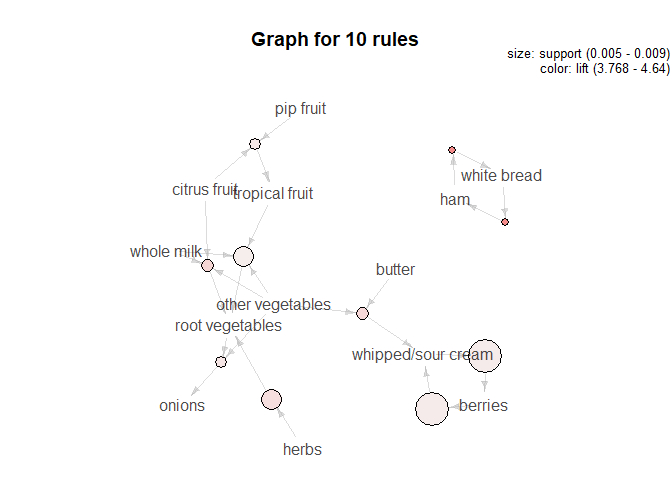
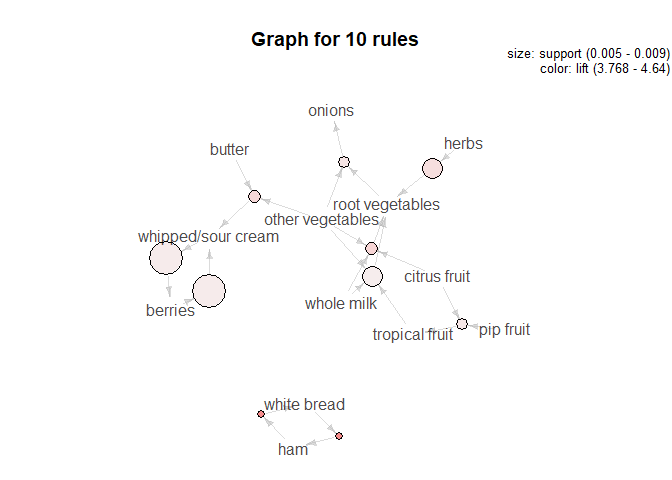
fix rule display

diff --git a/ARM_Groceries.md b/ARM_Groceries.md
@@ -31,56 +31,35 @@ have very high betweeness.
 The top 10 rules with a confidence threshold of 0.4 in terms of lift
 are:
 
-    ##                                                                rules
-    ## 1    {citrus fruit,other vegetables,whole milk} => {root vegetables}
-    ## 2                                       {herbs} => {root vegetables}
-    ## 3                       {citrus fruit,pip fruit} => {tropical fruit}
-    ## 4  {other vegetables,tropical fruit,whole milk} => {root vegetables}
-    ## 5       {other vegetables,pip fruit,whole milk} => {root vegetables}
-    ## 6                                  {curd,tropical fruit} => {yogurt}
-    ## 7                       {beef,other vegetables} => {root vegetables}
-    ## 8    {fruit/vegetable juice,other vegetables,whole milk} => {yogurt}
-    ## 9            {root vegetables,tropical fruit,whole milk} => {yogurt}
-    ## 10   {citrus fruit,root vegetables,whole milk} => {other vegetables}
-    ##        lift
-    ## 1  4.085493
-    ## 2  3.956477
-    ## 3  3.854060
-    ## 4  3.768074
-    ## 5  3.724961
-    ## 6  3.690645
-    ## 7  3.688692
-    ## 8  3.479790
-    ## 9  3.401937
-    ## 10 3.273165
-
-![](ARM_Groceries_files/figure-gfm/unnamed-chunk-10-1.png)<!-- -->
+|     rank | rules                                                              |     lift |
+| -------: | :----------------------------------------------------------------- | -------: |
+|        1 | {citrus fruit,other vegetables,whole milk} =\> {root vegetables}   | 4.085493 |
+|        2 | {herbs} =\> {root vegetables}                                      | 3.956477 |
+|        3 | {citrus fruit,pip fruit} =\> {tropical fruit}                      | 3.854060 |
+|        4 | {other vegetables,tropical fruit,whole milk} =\> {root vegetables} | 3.768074 |
+|        5 | {other vegetables,pip fruit,whole milk} =\> {root vegetables}      | 3.724961 |
+|        6 | {curd,tropical fruit} =\> {yogurt}                                 | 3.690645 |
+|        7 | {beef,other vegetables} =\> {root vegetables}                      | 3.688693 |
+|        8 | {fruit/vegetable juice,other vegetables,whole milk} =\> {yogurt}   | 3.479790 |
+|        9 | {root vegetables,tropical fruit,whole milk} =\> {yogurt}           | 3.401937 |
+|       10 | {citrus fruit,root vegetables,whole milk} =\> {other vegetables}   | 3.273165 |
+| \[\](ARM | \_Groceries\_files/figure-gfm/unnamed-chunk-10-1.png)<!-- -->      |          |
 
 If we lower the confidence threshold to 0.1, the top 10 rules
-    are:
+are:
 
-    ##                                                                rules
-    ## 1                                             {ham} => {white bread}
-    ## 2                                             {white bread} => {ham}
-    ## 3    {citrus fruit,other vegetables,whole milk} => {root vegetables}
-    ## 4                  {butter,other vegetables} => {whipped/sour cream}
-    ## 5                                       {herbs} => {root vegetables}
-    ## 6                     {other vegetables,root vegetables} => {onions}
-    ## 7                       {citrus fruit,pip fruit} => {tropical fruit}
-    ## 8                                  {berries} => {whipped/sour cream}
-    ## 9                                  {whipped/sour cream} => {berries}
-    ## 10 {other vegetables,tropical fruit,whole milk} => {root vegetables}
-    ##        lift
-    ## 1  4.639851
-    ## 2  4.639851
-    ## 3  4.085493
-    ## 4  4.036397
-    ## 5  3.956477
-    ## 6  3.875044
-    ## 7  3.854060
-    ## 8  3.796886
-    ## 9  3.796886
-    ## 10 3.768074
+| rank | rules                                                              |     lift |
+| ---: | :----------------------------------------------------------------- | -------: |
+|    1 | {ham} =\> {white bread}                                            | 4.639851 |
+|    2 | {white bread} =\> {ham}                                            | 4.639851 |
+|    3 | {citrus fruit,other vegetables,whole milk} =\> {root vegetables}   | 4.085493 |
+|    4 | {butter,other vegetables} =\> {whipped/sour cream}                 | 4.036397 |
+|    5 | {herbs} =\> {root vegetables}                                      | 3.956477 |
+|    6 | {other vegetables,root vegetables} =\> {onions}                    | 3.875044 |
+|    7 | {citrus fruit,pip fruit} =\> {tropical fruit}                      | 3.854060 |
+|    8 | {berries} =\> {whipped/sour cream}                                 | 3.796886 |
+|    9 | {whipped/sour cream} =\> {berries}                                 | 3.796886 |
+|   10 | {other vegetables,tropical fruit,whole milk} =\> {root vegetables} | 3.768074 |
 
 ![](ARM_Groceries_files/figure-gfm/unnamed-chunk-12-1.png)<!-- -->
 
